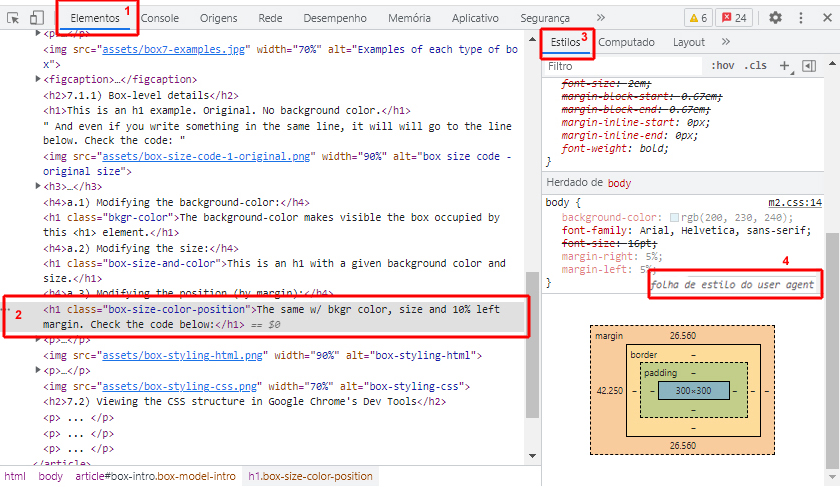
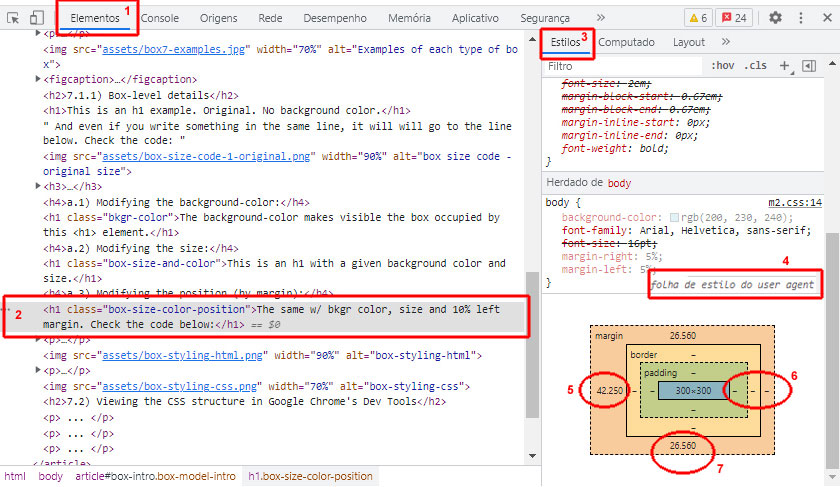
Explaining dev tools details.

diff --git a/m2-css-only/continuing.html b/m2-css-only/continuing.html
@@ -18,6 +18,8 @@
                 <a href="mailto:ricardobarrosbecheli@gmail.com" target="blank" rel="noopener noreferrer"> <img src="https://img.shields.io/badge/Gmail-D14836?style=for-the-badge&logo=gmail&logoColor=white"/></a>
 
                 <a href="https://www.linkedin.com/in/ricardo-becheli-36843659/" target="blank" rel="noopener noreferrer"> <img src="https://img.shields.io/badge/LinkedIn-0077B5?style=for-the-badge&logo=linkedin&logoColor=white"/></a>
+
+                <a href="http://github.com/ricardobecheli" target="_blank" rel="noopener noreferrer"><img src="https://img.shields.io/badge/GitHub-100000?style=for-the-badge&logo=github&logoColor=white"></a>
             </p>
         </header>
         
@@ -1281,6 +1283,9 @@
                         <li>When you click/select an HTML element it gets a grey background and... </li>
                         <li>Their CSS styles are displayed in the right column area.</li>
                         <li>If "user agent stylesheet" is written somewhere in the style area it means that some defaut style values are given by the browser itself automatically, so I've seen instructor developers in YouTube attributing "zero" values for the "invisible" properties before start styling any object in CSS.</li>
+                        <li>Margin left 10% attributed by me. The dev tools image displays a value translated into pixels but it changes according to the screen size.</li>
+                        <li>"Margin-inline-end" (seen in"3"), which means right margin in this case, is set to zero by default by the browser. Displayed here in "6" as dashes (=zero).</li>
+                        <li>These are are default top and bottom "h1" margin values (in pixels).</li>
                     </ol>
                 </figcaption>
 
@@ -1358,11 +1363,11 @@
             </p>
 
             <p class="short">
-                Minus probabilis est domus Aegypti munera offerre quam templa nostra. Utinam mandata acciperes! Optio, vero, quos id maiores provident maiores eos quasi dolores eos provident! Nam dolor ipsum dolor sit amet consectetur consequat. Nisi quam eligendi, non quis eligendi, doloribus vitae inceptos nemo! Accusamus nos, accepta nostra necessitates et obligationes cum his voluptatibus, in nudis clunibus pectoribusque aspiciendis facilis et pulchra est.  Ou não.
+                Minus probabilis est domus Aegypti munera offerre quam templa nostra. Utinam mandata acciperes! Optio, vero, quos id maiores provident maiores eos quasi dolores eos provident! Nam dolor ipsum dolor sit amet consectetur consequat. Nisi quam eligendi, non quis eligendi, doloribus vitae inceptos nemo! Accusamus nos, accepta nostra necessitates et obligationes cum his voluptatibus, in  clunibus pectoribusque aspiciendis facilis et pulchra est.  Ou não.
             </p>
 
             <p>
-                This next paragraph is here to show how wide the "margin-bottom" of the previous paraggrtaph is.
+                This "next" paragraph is here only to show how wide the "margin-bottom" of the previous paragraph is.
             </p>
 
             <p>

diff --git a/m2-css-only/m2.css b/m2-css-only/m2.css
@@ -48,11 +48,12 @@ h3 {
 .clarify-box {
   box-shadow: inset 0 0 1.5em chartreuse, 0 0 1em blue;
   width: 70%;
-  margin: auto;
+  margin: auto; /*this one centralizes the box - left and right.*/
+  margin-top: 3em; /*not affected by the "auto" above*/
+  margin-bottom: 3em; /*not affected by the "auto" above*/
   padding: 2%;
   color: blue;
-  margin-top: 3em;
-  margin-bottom: 3em;
+
 }
 
 footer {
@@ -122,6 +123,7 @@ figure {
       margin: 0;
       padding: 0;
       list-style-type: none;
+      margin-top: 1px;
 
     }
 
@@ -132,7 +134,7 @@ figure {
       padding: 4px;
       color: rgb(255, 255, 255);
       font-family: 'Segoe UI', Tahoma, Geneva, Verdana, sans-serif;
-      border: 1px solid lightsteelblue;
+      border: 1px solid rgb(200, 230, 240);
       text-decoration: none;
 }
 /* Nav Bar style end */
@@ -296,11 +298,14 @@ a:active {
 
 /* EXAMPLE OF SHORTHAND IN A CLASS CALLED "short"
 
-It will be applied to the following items, in the following order (must be):
+Shorthand will be applied to the following items of a paragraph tag and the values MUST be in the following order for each one :
 
 border: width style color
+
 padding: top right bottom left (note that it's clockwise)
+
 margin: top right bottom left (note that it's clockwise)
+
 outline: width style color
 
 */
@@ -316,7 +321,7 @@ outline: width style color
   */
 
   /*
-  If you declate only 2 values (50px 50px), the first one will go to top an bottom; the second one will go to right and left.
+  If you declate only 2 values for margins or paddings (e.g. 50px 50px), the first one will set  top an bottom values; the second one will set right and left values.
   */
   
   margin: 50px;

diff --git a/index.html b/index.html
@@ -19,6 +19,8 @@
                 <a href="mailto:ricardobarrosbecheli@gmail.com"> <img src="https://img.shields.io/badge/Gmail-D14836?style=for-the-badge&logo=gmail&logoColor=white"/></a>
 
                 <a href="https://www.linkedin.com/in/ricardo-becheli-36843659/"> <img src="https://img.shields.io/badge/LinkedIn-0077B5?style=for-the-badge&logo=linkedin&logoColor=white"/></a>
+                
+                <a href="http://github.com/ricardobecheli" target="_blank" rel="noopener noreferrer"><img src="https://img.shields.io/badge/GitHub-100000?style=for-the-badge&logo=github&logoColor=white"></a>
             </p>
         </header>
 
